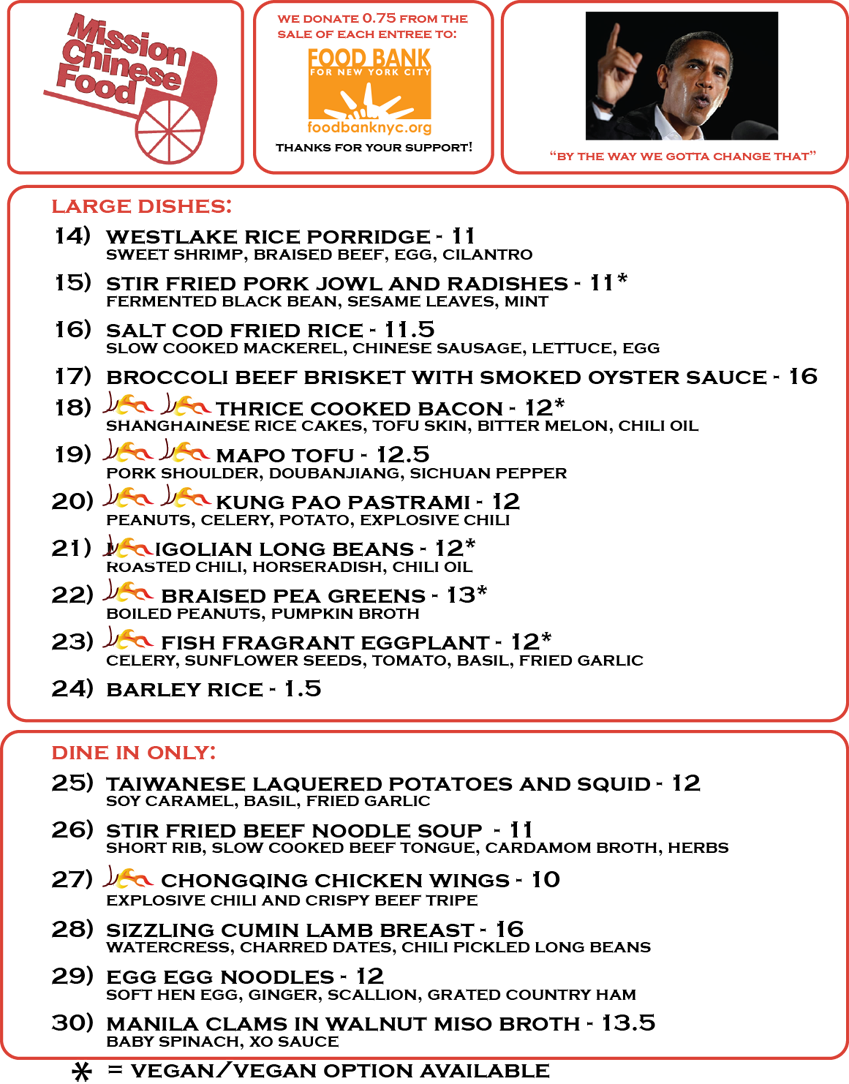
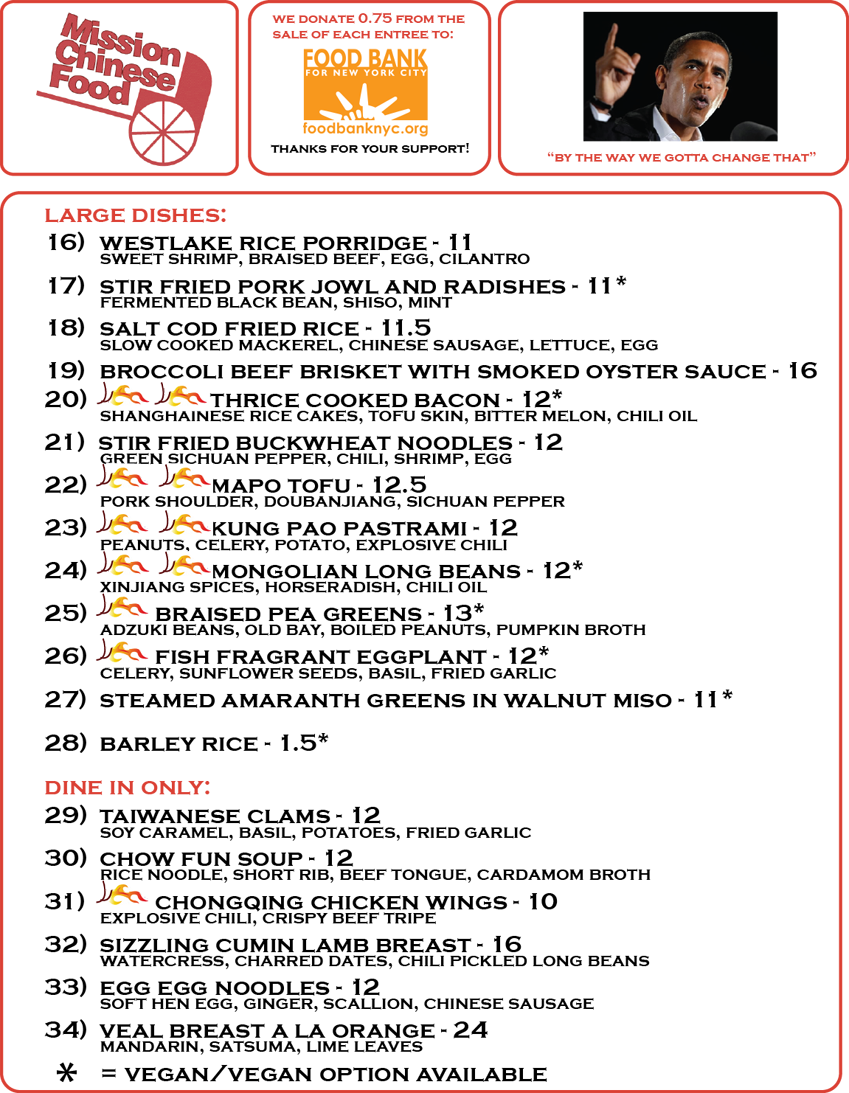
Update NY menu

Changed region(s): [[0.0, 0.0, 1.0, 1.0]]

diff --git a/ny/index.html b/ny/index.html
@@ -53,8 +53,8 @@ body {
 <body>
 
 <div id="menu">
-    <img class="well" src="/static/img/nymenu1.png?v=5" alt="Menu"  width="849" height="1192" />
-    <img class="well" src="/static/img/nymenu2.png?v=5" alt="Menu"  width="849" height="1084" />
+    <img class="well" src="/static/img/nymenu1.png?v=6" alt="Menu"  width="849" height="1156" />
+    <img class="well" src="/static/img/nymenu2.png?v=6" alt="Menu"  width="849" height="1093" />
     <p id="footer">154 ORCHARD ST NY NY 10002 BETWEEN RIVINGTON &amp; STANTON ST</p>
 </div>
 
